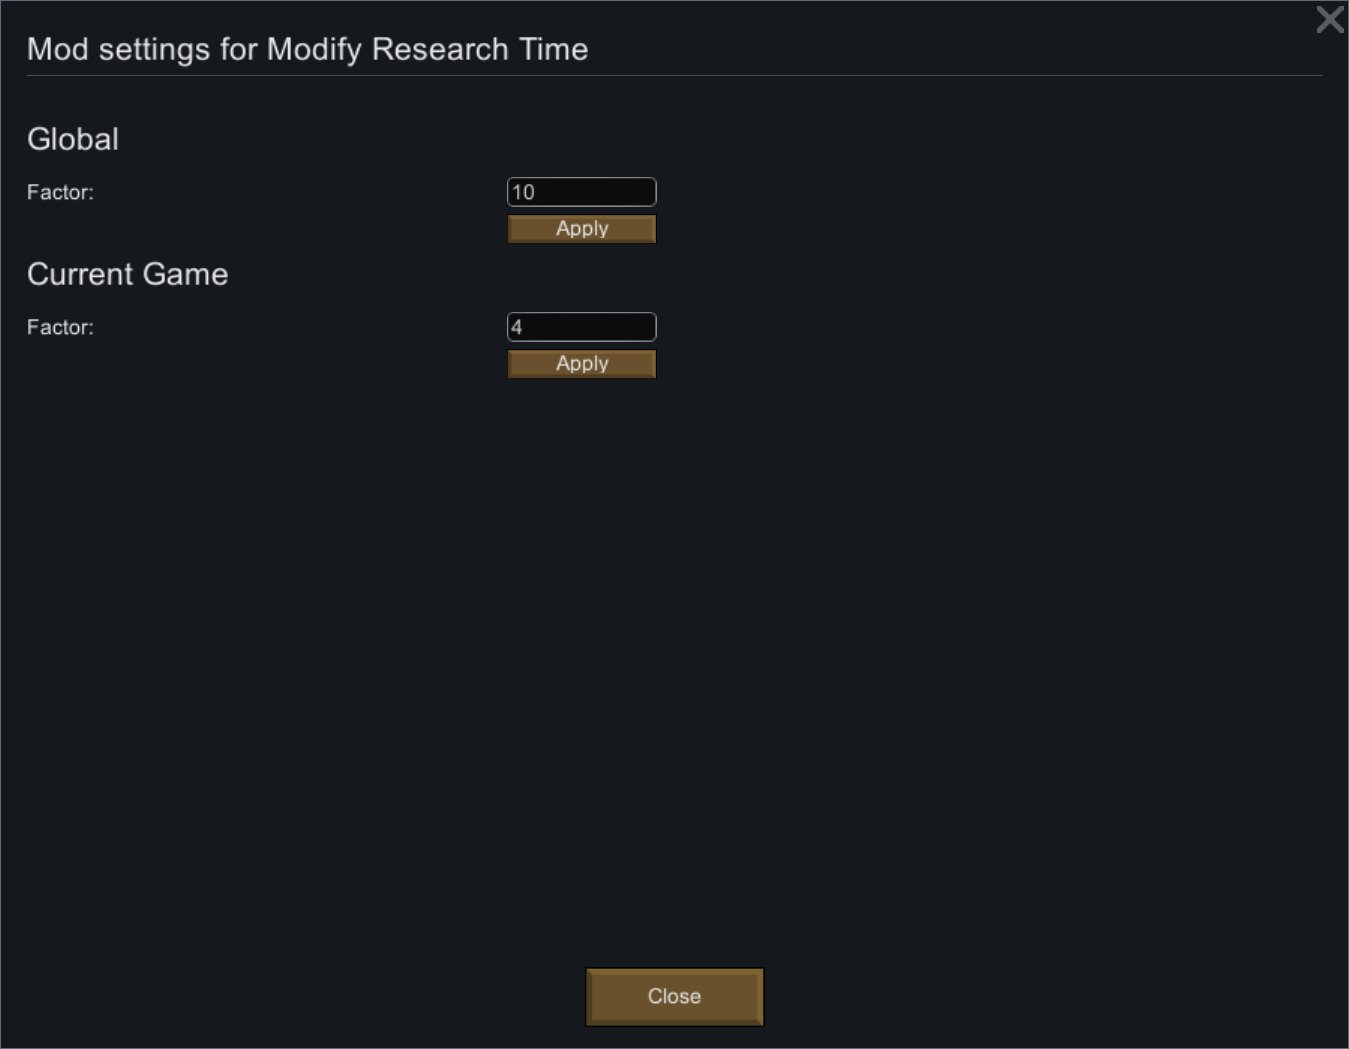
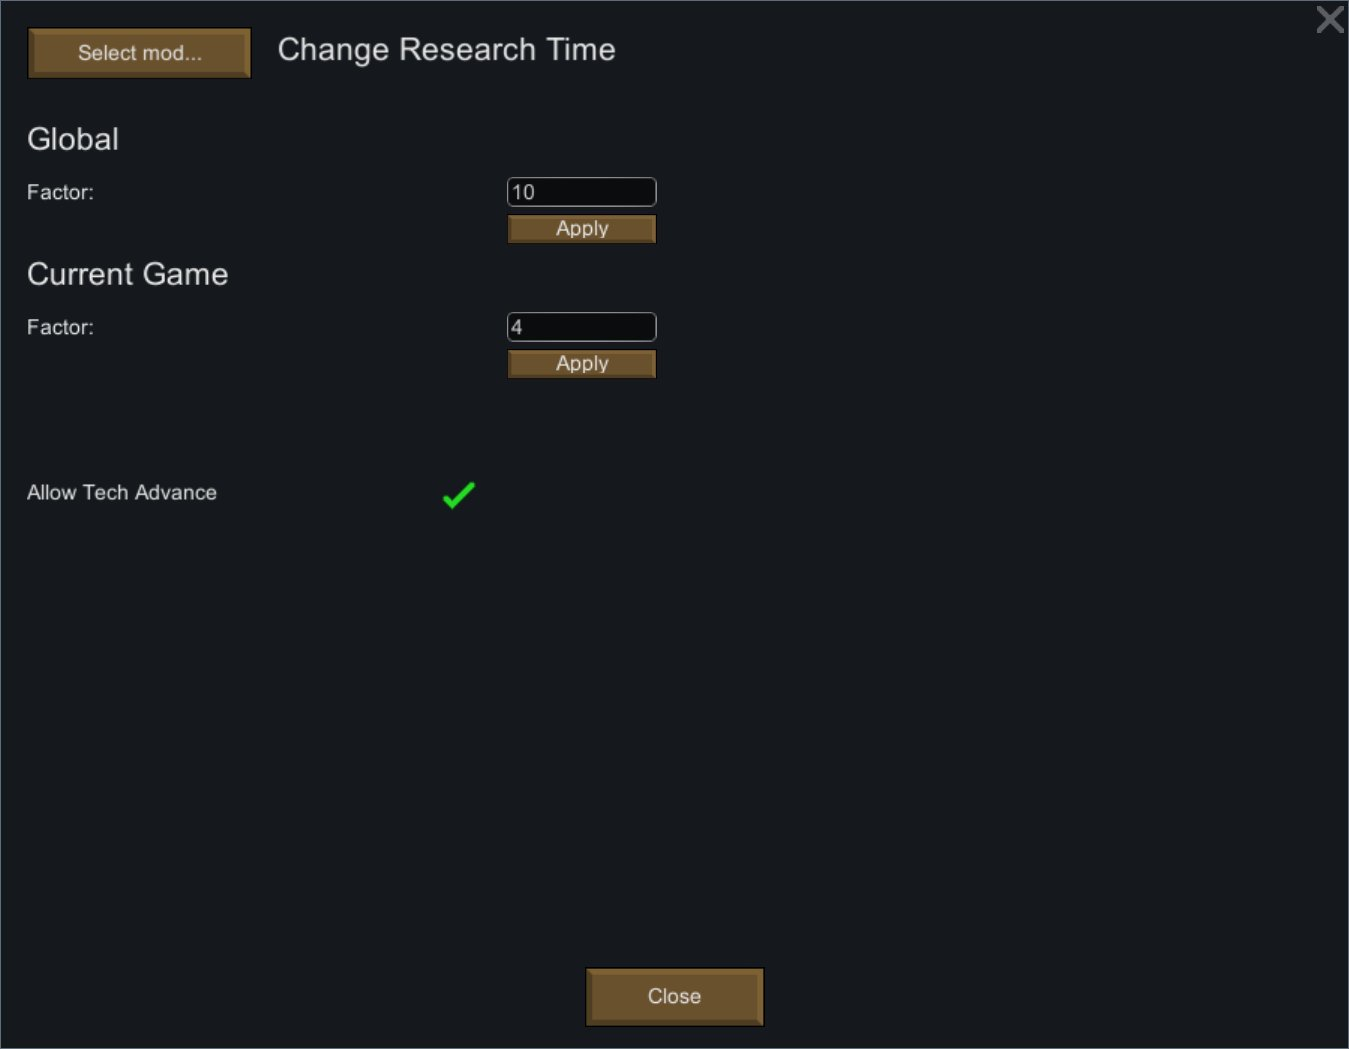
Updating to A18

Changed region(s): [[0.0, 0.0, 0.467, 0.0915], [0.0, 0.4576, 0.1557, 0.4881], [0.3113, 0.4576, 0.3736, 0.4881]]

diff --git a/Source/Main.cs b/Source/Main.cs
@@ -1,5 +1,7 @@
 using Harmony;
+using RimWorld;
 using System.Reflection;
+using System.Text;
 using Verse;
 
 namespace ModifyResearchTime
@@ -12,7 +14,8 @@ namespace ModifyResearchTime
             var harmony = HarmonyInstance.Create("com.modifyresearchtime.rimworld.mod");
             harmony.PatchAll(Assembly.GetExecutingAssembly());
             
-            Log.Message("ModifyResearchTime: Adding Harmony Postfix to DefDatabase.ErrorCheckAllDefs");
+            Log.Message("ModifyResearchTime: Adding Harmony Postfix to Game.InitNewGame");
+            Log.Message("TechLevelAdvance: Adding Harmony Postfix to ResearchManager.ReapplyAllMods");
         }
     }
 
@@ -22,6 +25,71 @@ namespace ModifyResearchTime
         static void Postfix()
         {
             WorldComp.InitializeNewGame();
+        }
+    }
+
+    [HarmonyPatch(typeof(ResearchManager), "ReapplyAllMods")]
+    static class Patch_ResearchManager_ReapplyAllMods
+    {
+        static void Postfix()
+        {
+            TechLevel techLevel = Faction.OfPlayer.def.techLevel;
+#if DEBUG
+            Log.Warning("Tech Level: " + techLevel);
+#endif
+            int countCurrentAndPreviousTechLevelFinished = 0;
+            int totalCurrentAndPreviousTechLevel = 0;
+            int countNextTechLevelFinished = 0;
+
+            foreach (ResearchProjectDef def in DefDatabase<ResearchProjectDef>.AllDefs)
+            {
+                if (def.techLevel <= techLevel)
+                {
+                    ++totalCurrentAndPreviousTechLevel;
+                    if (def.IsFinished)
+                    {
+                        ++countCurrentAndPreviousTechLevelFinished;
+                    }
+#if DEBUG
+                    else
+                    {
+                        Log.Warning("Still need to reseach: " + def.defName);
+                    }
+#endif
+                }
+                else if (def.techLevel == techLevel + 1)
+                {
+                    if (def.IsFinished)
+                    {
+                        ++countNextTechLevelFinished;
+                    }
+                }
+            }
+#if DEBUG
+            Log.Warning("Finished: " + countCurrentAndPreviousTechLevelFinished + " Next Tech Level Finished: " + countNextTechLevelFinished + " Total Techs: " + totalCurrentAndPreviousTechLevel);
+#endif
+            if (countCurrentAndPreviousTechLevelFinished + countNextTechLevelFinished >= totalCurrentAndPreviousTechLevel && countNextTechLevelFinished > 0)
+            {
+                if (Scribe.mode == LoadSaveMode.Inactive)
+                {
+                    // Only display this message is not loading
+                    Messages.Message("Advancing Tech Level from [" + techLevel.ToString() + "] to [" + (techLevel + 1).ToString() + "].", MessageTypeDefOf.PositiveEvent);
+                }
+                techLevel += 1;
+                Faction.OfPlayer.def.techLevel = techLevel;
+            }
+            else
+            {
+                StringBuilder sb = new StringBuilder(
+                    "Tech Advance: Need to research [");
+                sb.Append(totalCurrentAndPreviousTechLevel - countCurrentAndPreviousTechLevelFinished - countNextTechLevelFinished);
+                sb.Append("] more technologies");
+                if (countNextTechLevelFinished == 0)
+                {
+                    sb.Append(" and at least one next-generation technology.");
+                }
+                Log.Message(sb.ToString());
+            }
         }
     }
 }

diff --git a/Source/Settings.cs b/Source/Settings.cs
@@ -1,4 +1,5 @@
-using UnityEngine;
+using RimWorld;
+using UnityEngine;
 using Verse;
 
 namespace ModifyResearchTime
@@ -28,7 +29,7 @@ namespace ModifyResearchTime
                 if (Settings.GlobalFactor.ValidateInput())
                 {
                     base.GetSettings<Settings>().Write();
-                    Messages.Message("ModifyResearchTime.Global".Translate() + " " + "ModifyResearchTime.ResearchTimesUpdated".Translate(), MessageSound.Benefit);
+                    Messages.Message("ModifyResearchTime.Global".Translate() + " " + "ModifyResearchTime.ResearchTimesUpdated".Translate(), MessageTypeDefOf.PositiveEvent);
                 }
             }
 
@@ -44,12 +45,21 @@ namespace ModifyResearchTime
                     if (Settings.GameFactor.ValidateInput())
                     {
                         WorldComp.UpdateFactor(Settings.GameFactor.AsFloat);
-                        Messages.Message("ModifyResearchTime.CurrentGame".Translate() + " " + "ModifyResearchTime.ResearchTimesUpdated".Translate(), MessageSound.Benefit);
+                        Messages.Message("ModifyResearchTime.CurrentGame".Translate() + " " + "ModifyResearchTime.ResearchTimesUpdated".Translate(), MessageTypeDefOf.PositiveEvent);
                     }
                 }
-
             }
+
             GUI.EndGroup();
+
+            Listing_Standard l = new Listing_Standard(GameFont.Small);
+            l.Begin(new Rect(0, 300, 400, 60));
+            l.ColumnWidth = 300;
+            l.CheckboxLabeled(
+                "ModifyResearchTime.AllowTechAdvance".Translate(),
+                ref Settings.AllowTechAdvance,
+                "ModifyResearchTime.AllowTechAdvanceToolTip".Translate());
+            l.End();
         }
     }
 
@@ -57,11 +67,13 @@ namespace ModifyResearchTime
     {
         public static readonly FloatInput GlobalFactor = new FloatInput("Global Research Time Factor");
         public static readonly FloatInput GameFactor = new FloatInput("Game Research Time Factor");
+        public static bool AllowTechAdvance = false;
 
         public override void ExposeData()
         {
             base.ExposeData();
             Scribe_Values.Look<string>(ref (GlobalFactor.AsString), "ModifyResearchTime.Factor", "1.00", false);
+            Scribe_Values.Look<bool>(ref AllowTechAdvance, "ModifyResearchTime.AllowTechAdvance", false, false);
         }
     }
 }

diff --git a/Source/WorldComp.cs b/Source/WorldComp.cs
@@ -15,14 +15,12 @@ namespace ModifyResearchTime
 
         public static void InitializeNewGame()
         {
-            if (Instance == null)
-            {
-                Log.Error("WorldComp.Instance is null.");
-                return;
-            }
             Settings.GameFactor.Copy(Settings.GlobalFactor);
-            Instance.currentFactor = Settings.GlobalFactor.AsFloat;
+            Instance.currentFactor = Settings.GameFactor.AsFloat;
             ResearchTimeUtil.ApplyFactor(1, Instance.currentFactor);
+#if DEBUG
+            Log.Warning("InitializeNewGame: Global: " + Settings.GlobalFactor.AsString + " Game: " + Settings.GameFactor.AsString);
+#endif
         }
 
         public override void ExposeData()
@@ -32,17 +30,12 @@ namespace ModifyResearchTime
             Settings.GameFactor.AsFloat = this.currentFactor;
             if (Scribe.mode == LoadSaveMode.PostLoadInit)
             {
-                ResearchTimeUtil.ApplyFactor(currentFactor, currentFactor);
+                ResearchTimeUtil.ApplyFactor(1, currentFactor);
             }
         }
 
         internal static void UpdateFactor(float newFactor)
         {
-            if (Instance == null)
-            {
-                Log.Error("WorldComp Instance is null.");
-                return;
-            }
             if (Instance.currentFactor != newFactor)
             {
                 ResearchTimeUtil.ApplyFactor(Instance.currentFactor, newFactor);

diff --git a/Source/FloatInput.cs b/Source/FloatInput.cs
@@ -1,4 +1,5 @@
-using Verse;
+using RimWorld;
+using Verse;
 
 namespace ModifyResearchTime
 {
@@ -36,13 +37,13 @@ namespace ModifyResearchTime
             {
                 if (f <= 0)
                 {
-                    Messages.Message(name + " cannot be less than or equal to 0.", MessageSound.RejectInput);
+                    Messages.Message(name + " cannot be less than or equal to 0.", MessageTypeDefOf.RejectInput);
                     return false;
                 }
             }
             else
             {
-                Messages.Message("Unable to parse " + name +  " to a number.", MessageSound.RejectInput);
+                Messages.Message("Unable to parse " + name +  " to a number.", MessageTypeDefOf.RejectInput);
                 return false;
             }
             return true;
